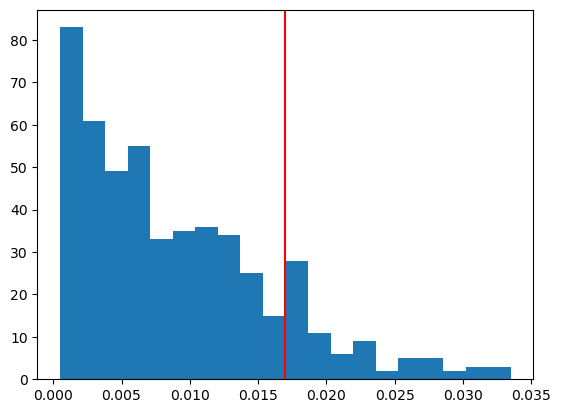
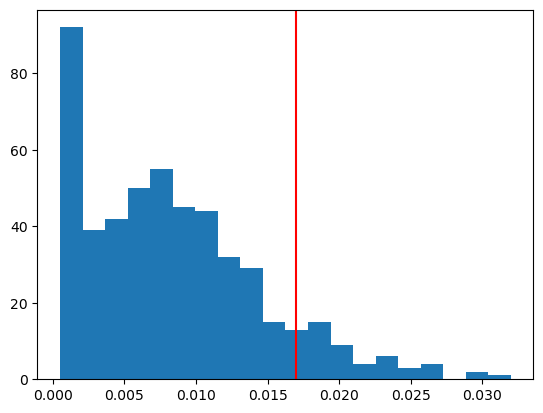
lec 9

Changed region(s): [[0.1473, 0.0291, 0.9724, 0.9879], [0.0, 0.0291, 0.1473, 0.9879], [0.1768, 0.9298, 0.2652, 0.9879]]

diff --git a/docs/lec-9/lecture-9.html b/docs/lec-9/lecture-9.html
@@ -324,7 +324,7 @@ window.Quarto = {
 </header>
 
 
-<div id="cell-1" class="cell" data-execution_count="18">
+<div id="cell-1" class="cell" data-execution_count="144">
 <div class="sourceCode cell-code" id="cb1"><pre class="sourceCode python code-with-copy"><code class="sourceCode python"><span id="cb1-1"><a href="#cb1-1" aria-hidden="true" tabindex="-1"></a><span class="im">import</span> torch</span>
 <span id="cb1-2"><a href="#cb1-2" aria-hidden="true" tabindex="-1"></a><span class="im">import</span> torch.nn <span class="im">as</span> nn</span>
 <span id="cb1-3"><a href="#cb1-3" aria-hidden="true" tabindex="-1"></a><span class="im">import</span> torch.optim <span class="im">as</span> optim</span>
@@ -333,8 +333,8 @@ window.Quarto = {
 <span id="cb1-6"><a href="#cb1-6" aria-hidden="true" tabindex="-1"></a><span class="im">import</span> scipy</span>
 <span id="cb1-7"><a href="#cb1-7" aria-hidden="true" tabindex="-1"></a></span>
 <span id="cb1-8"><a href="#cb1-8" aria-hidden="true" tabindex="-1"></a>torch.manual_seed(<span class="dv">42</span>)</span></code><button title="Copy to Clipboard" class="code-copy-button"><i class="bi"></i></button></pre></div>
-<div class="cell-output cell-output-display" data-execution_count="18">
-<pre><code>&lt;torch._C.Generator at 0x10ff1c830&gt;</code></pre>
+<div class="cell-output cell-output-display" data-execution_count="144">
+<pre><code>&lt;torch._C.Generator at 0x112a1c3f0&gt;</code></pre>
 </div>
 </div>
 <section id="two-sample-test" class="level2">
@@ -347,7 +347,7 @@ window.Quarto = {
 <p>We conduct a permutation test to test whether CTR for A (<span class="math inline">\theta_A</span>) is equal to CTR for B (<span class="math inline">\theta_B</span>).</p>
 <p><span class="math inline">H_0: \theta_A=\theta_B, \quad H_1: \theta_A \neq \theta_B</span>.</p>
 <p>Our test statistic is <span class="math inline">|\hat{\theta}_A-\hat{\theta}_B|</span>.</p>
-<div id="cell-3" class="cell" data-execution_count="19">
+<div id="cell-3" class="cell" data-execution_count="145">
 <div class="sourceCode cell-code" id="cb3"><pre class="sourceCode python code-with-copy"><code class="sourceCode python"><span id="cb3-1"><a href="#cb3-1" aria-hidden="true" tabindex="-1"></a>my_viewsA <span class="op">=</span> <span class="dv">98</span> <span class="co"># number of clicks for video A</span></span>
 <span id="cb3-2"><a href="#cb3-2" aria-hidden="true" tabindex="-1"></a>my_viewsB <span class="op">=</span> <span class="dv">162</span> <span class="co"># number of clicks for video B</span></span>
 <span id="cb3-3"><a href="#cb3-3" aria-hidden="true" tabindex="-1"></a></span>
@@ -356,35 +356,35 @@ window.Quarto = {
 </div>
 <p>Dataset A: <span class="math inline">(1, \dots, 1, 0, 0, \dots, 0)</span> (98 ones, 902 zeros)</p>
 <p>Dataset B: <span class="math inline">(1,\dots, 1, 0, \dots, 0)</span> (162 ones, 1838 zeros)</p>
-<div id="cell-5" class="cell" data-execution_count="20">
+<div id="cell-5" class="cell" data-execution_count="146">
 <div class="sourceCode cell-code" id="cb4"><pre class="sourceCode python code-with-copy"><code class="sourceCode python"><span id="cb4-1"><a href="#cb4-1" aria-hidden="true" tabindex="-1"></a>my_viewsA<span class="op">/</span>n_impsA</span></code><button title="Copy to Clipboard" class="code-copy-button"><i class="bi"></i></button></pre></div>
-<div class="cell-output cell-output-display" data-execution_count="20">
+<div class="cell-output cell-output-display" data-execution_count="146">
 <pre><code>0.098</code></pre>
 </div>
 </div>
-<div id="cell-6" class="cell" data-execution_count="21">
+<div id="cell-6" class="cell" data-execution_count="147">
 <div class="sourceCode cell-code" id="cb6"><pre class="sourceCode python code-with-copy"><code class="sourceCode python"><span id="cb6-1"><a href="#cb6-1" aria-hidden="true" tabindex="-1"></a>my_viewsB<span class="op">/</span>n_impsB</span></code><button title="Copy to Clipboard" class="code-copy-button"><i class="bi"></i></button></pre></div>
-<div class="cell-output cell-output-display" data-execution_count="21">
+<div class="cell-output cell-output-display" data-execution_count="147">
 <pre><code>0.081</code></pre>
 </div>
 </div>
-<div id="cell-7" class="cell" data-execution_count="22">
+<div id="cell-7" class="cell" data-execution_count="148">
 <div class="sourceCode cell-code" id="cb8"><pre class="sourceCode python code-with-copy"><code class="sourceCode python"><span id="cb8-1"><a href="#cb8-1" aria-hidden="true" tabindex="-1"></a>obs_T <span class="op">=</span> <span class="bu">abs</span>(my_viewsA<span class="op">/</span>n_impsA <span class="op">-</span> my_viewsB<span class="op">/</span>n_impsB) <span class="co"># |theta_1 - theta_2|</span></span></code><button title="Copy to Clipboard" class="code-copy-button"><i class="bi"></i></button></pre></div>
 </div>
-<div id="cell-8" class="cell" data-execution_count="23">
+<div id="cell-8" class="cell" data-execution_count="149">
 <div class="sourceCode cell-code" id="cb9"><pre class="sourceCode python code-with-copy"><code class="sourceCode python"><span id="cb9-1"><a href="#cb9-1" aria-hidden="true" tabindex="-1"></a>obs_T</span></code><button title="Copy to Clipboard" class="code-copy-button"><i class="bi"></i></button></pre></div>
-<div class="cell-output cell-output-display" data-execution_count="23">
+<div class="cell-output cell-output-display" data-execution_count="149">
 <pre><code>0.017</code></pre>
 </div>
 </div>
 <p>We pool the Dataset A and Dataset B. (We will shuffle Dataset A and Dataset B in the permutation test).</p>
-<div id="cell-10" class="cell" data-execution_count="24">
+<div id="cell-10" class="cell" data-execution_count="150">
 <div class="sourceCode cell-code" id="cb11"><pre class="sourceCode python code-with-copy"><code class="sourceCode python"><span id="cb11-1"><a href="#cb11-1" aria-hidden="true" tabindex="-1"></a>all_views <span class="op">=</span> my_viewsA <span class="op">+</span> my_viewsB</span>
 <span id="cb11-2"><a href="#cb11-2" aria-hidden="true" tabindex="-1"></a>all_imps <span class="op">=</span> n_impsA <span class="op">+</span> n_impsB</span>
 <span id="cb11-3"><a href="#cb11-3" aria-hidden="true" tabindex="-1"></a>pool <span class="op">=</span> np.array([<span class="dv">1</span>]<span class="op">*</span>all_views <span class="op">+</span> [<span class="dv">0</span>]<span class="op">*</span>(all_imps <span class="op">-</span> all_views))</span></code><button title="Copy to Clipboard" class="code-copy-button"><i class="bi"></i></button></pre></div>
 </div>
 <p>Here is an example of a random draw from the null distribution (that the CTR of A and B is the same).</p>
-<div id="cell-12" class="cell" data-execution_count="25">
+<div id="cell-12" class="cell" data-execution_count="151">
 <div class="sourceCode cell-code" id="cb12"><pre class="sourceCode python code-with-copy"><code class="sourceCode python"><span id="cb12-1"><a href="#cb12-1" aria-hidden="true" tabindex="-1"></a><span class="co"># Sample without replacement for impsA</span></span>
 <span id="cb12-2"><a href="#cb12-2" aria-hidden="true" tabindex="-1"></a>impsA <span class="op">=</span> np.random.choice(pool, n_impsA, replace<span class="op">=</span><span class="va">False</span>)</span>
 <span id="cb12-3"><a href="#cb12-3" aria-hidden="true" tabindex="-1"></a><span class="co"># new permuted dataset of size n_impsA</span></span>
@@ -397,7 +397,7 @@ window.Quarto = {
 <li>for each sample <span class="math inline">s=1,\dots, 500</span>, calculate <span class="math inline">T_s = |\hat{\theta}_{A, s}-\hat{\theta}_{B, s}|</span></li>
 <li>locate actual observed <span class="math inline">T_{obs}=|\hat{\theta}_A-\hat{\theta}_B|</span> in sample distribution: <span class="math display">\text{p-val} = \frac{1}{S}\sum_{s=1}^{500} \mathbb{1}(T_s\geq T_{obs} )</span></li>
 </ul>
-<div id="cell-14" class="cell" data-execution_count="26">
+<div id="cell-14" class="cell" data-execution_count="152">
 <div class="sourceCode cell-code" id="cb13"><pre class="sourceCode python code-with-copy"><code class="sourceCode python"><span id="cb13-1"><a href="#cb13-1" aria-hidden="true" tabindex="-1"></a>n_perm <span class="op">=</span> <span class="dv">500</span></span>
 <span id="cb13-2"><a href="#cb13-2" aria-hidden="true" tabindex="-1"></a>resampled_Ts <span class="op">=</span> np.zeros(n_perm) <span class="co"># where to store our permutation test statistics</span></span>
 <span id="cb13-3"><a href="#cb13-3" aria-hidden="true" tabindex="-1"></a></span>
@@ -425,7 +425,7 @@ window.Quarto = {
 <span id="cb13-25"><a href="#cb13-25" aria-hidden="true" tabindex="-1"></a>plt.axvline(obs_T, color<span class="op">=</span><span class="st">'red'</span>)</span>
 <span id="cb13-26"><a href="#cb13-26" aria-hidden="true" tabindex="-1"></a>plt.show()</span></code><button title="Copy to Clipboard" class="code-copy-button"><i class="bi"></i></button></pre></div>
 <div class="cell-output cell-output-stdout">
-<pre><code>P-Value: 0.1480</code></pre>
+<pre><code>P-Value: 0.1140</code></pre>
 </div>
 <div class="cell-output cell-output-display">
 <div>
@@ -460,25 +460,26 @@ window.Quarto = {
 </ul></li>
 <li>Calculate <span class="math inline">p</span>-value: <span class="math display">\text{p-val} = \frac{1}{S}\sum_{s=1}^{500} \mathbb{1}(T_s\geq T_{obs} )</span></li>
 </ul>
-<div id="cell-17" class="cell" data-execution_count="27">
+<div id="cell-17" class="cell" data-execution_count="153">
 <div class="sourceCode cell-code" id="cb15"><pre class="sourceCode python code-with-copy"><code class="sourceCode python"><span id="cb15-1"><a href="#cb15-1" aria-hidden="true" tabindex="-1"></a><span class="kw">class</span> NNet(nn.Module):</span>
 <span id="cb15-2"><a href="#cb15-2" aria-hidden="true" tabindex="-1"></a>    <span class="kw">def</span> <span class="fu">__init__</span>(<span class="va">self</span>, in_dim, out_dim):</span>
 <span id="cb15-3"><a href="#cb15-3" aria-hidden="true" tabindex="-1"></a>        <span class="bu">super</span>(NNet, <span class="va">self</span>).<span class="fu">__init__</span>()</span>
 <span id="cb15-4"><a href="#cb15-4" aria-hidden="true" tabindex="-1"></a>        <span class="va">self</span>.sequential <span class="op">=</span> nn.Sequential(</span>
 <span id="cb15-5"><a href="#cb15-5" aria-hidden="true" tabindex="-1"></a>            nn.Linear(in_dim, <span class="dv">2</span><span class="op">*</span>in_dim),</span>
 <span id="cb15-6"><a href="#cb15-6" aria-hidden="true" tabindex="-1"></a>            nn.ReLU(),</span>
-<span id="cb15-7"><a href="#cb15-7" aria-hidden="true" tabindex="-1"></a>            nn.Linear(<span class="dv">2</span><span class="op">*</span>in_dim, out_dim))</span>
-<span id="cb15-8"><a href="#cb15-8" aria-hidden="true" tabindex="-1"></a></span>
-<span id="cb15-9"><a href="#cb15-9" aria-hidden="true" tabindex="-1"></a>    <span class="kw">def</span> forward(<span class="va">self</span>, x):</span>
-<span id="cb15-10"><a href="#cb15-10" aria-hidden="true" tabindex="-1"></a>        <span class="cf">return</span> <span class="va">self</span>.sequential(x)</span></code><button title="Copy to Clipboard" class="code-copy-button"><i class="bi"></i></button></pre></div>
+<span id="cb15-7"><a href="#cb15-7" aria-hidden="true" tabindex="-1"></a>            nn.Dropout(<span class="fl">0.5</span>),</span>
+<span id="cb15-8"><a href="#cb15-8" aria-hidden="true" tabindex="-1"></a>            nn.Linear(<span class="dv">2</span><span class="op">*</span>in_dim, out_dim))</span>
+<span id="cb15-9"><a href="#cb15-9" aria-hidden="true" tabindex="-1"></a></span>
+<span id="cb15-10"><a href="#cb15-10" aria-hidden="true" tabindex="-1"></a>    <span class="kw">def</span> forward(<span class="va">self</span>, x):</span>
+<span id="cb15-11"><a href="#cb15-11" aria-hidden="true" tabindex="-1"></a>        <span class="cf">return</span> <span class="va">self</span>.sequential(x)</span></code><button title="Copy to Clipboard" class="code-copy-button"><i class="bi"></i></button></pre></div>
 </div>
 <p>We create simulated data which we know is NOT independent.</p>
 <p>Ideally, we should reject the null hypothesis that <span class="math inline">Y</span> and <span class="math inline">X</span> are independent.</p>
-<div id="cell-19" class="cell" data-execution_count="28">
+<div id="cell-19" class="cell" data-execution_count="154">
 <div class="sourceCode cell-code" id="cb16"><pre class="sourceCode python code-with-copy"><code class="sourceCode python"><span id="cb16-1"><a href="#cb16-1" aria-hidden="true" tabindex="-1"></a>p1 <span class="op">=</span> <span class="dv">5</span> <span class="co"># dimension of X</span></span>
 <span id="cb16-2"><a href="#cb16-2" aria-hidden="true" tabindex="-1"></a>p2 <span class="op">=</span> <span class="dv">3</span> <span class="co"># dimension of Y</span></span>
 <span id="cb16-3"><a href="#cb16-3" aria-hidden="true" tabindex="-1"></a></span>
-<span id="cb16-4"><a href="#cb16-4" aria-hidden="true" tabindex="-1"></a>signal_strength <span class="op">=</span> <span class="fl">0.2</span></span>
+<span id="cb16-4"><a href="#cb16-4" aria-hidden="true" tabindex="-1"></a>signal_strength <span class="op">=</span> <span class="fl">0.3</span></span>
 <span id="cb16-5"><a href="#cb16-5" aria-hidden="true" tabindex="-1"></a></span>
 <span id="cb16-6"><a href="#cb16-6" aria-hidden="true" tabindex="-1"></a>n_samples <span class="op">=</span> <span class="dv">10000</span></span>
 <span id="cb16-7"><a href="#cb16-7" aria-hidden="true" tabindex="-1"></a></span>
@@ -493,8 +494,8 @@ window.Quarto = {
 <span id="cb16-16"><a href="#cb16-16" aria-hidden="true" tabindex="-1"></a>X <span class="op">=</span> torch.tensor(X, dtype<span class="op">=</span>torch.float32)</span>
 <span id="cb16-17"><a href="#cb16-17" aria-hidden="true" tabindex="-1"></a>Y <span class="op">=</span> torch.tensor(Y, dtype<span class="op">=</span>torch.float32)</span></code><button title="Copy to Clipboard" class="code-copy-button"><i class="bi"></i></button></pre></div>
 </div>
-<div id="cell-20" class="cell" data-execution_count="29">
-<div class="sourceCode cell-code" id="cb17"><pre class="sourceCode python code-with-copy"><code class="sourceCode python"><span id="cb17-1"><a href="#cb17-1" aria-hidden="true" tabindex="-1"></a><span class="kw">def</span> testerr(x, y, epochs<span class="op">=</span><span class="dv">100</span>):</span>
+<div id="cell-20" class="cell" data-execution_count="155">
+<div class="sourceCode cell-code" id="cb17"><pre class="sourceCode python code-with-copy"><code class="sourceCode python"><span id="cb17-1"><a href="#cb17-1" aria-hidden="true" tabindex="-1"></a><span class="kw">def</span> testerr(x, y, epochs<span class="op">=</span><span class="dv">200</span>):</span>
 <span id="cb17-2"><a href="#cb17-2" aria-hidden="true" tabindex="-1"></a></span>
 <span id="cb17-3"><a href="#cb17-3" aria-hidden="true" tabindex="-1"></a>    <span class="co"># trains a neural network to predict y from x</span></span>
 <span id="cb17-4"><a href="#cb17-4" aria-hidden="true" tabindex="-1"></a>    ntrain <span class="op">=</span> <span class="bu">int</span>(n_samples <span class="op">*</span> <span class="fl">0.7</span>) <span class="co"># train on 70% of the data</span></span>
@@ -507,7 +508,7 @@ window.Quarto = {
 <span id="cb17-11"><a href="#cb17-11" aria-hidden="true" tabindex="-1"></a>    y_test <span class="op">=</span> y[ntrain:]</span>
 <span id="cb17-12"><a href="#cb17-12" aria-hidden="true" tabindex="-1"></a></span>
 <span id="cb17-13"><a href="#cb17-13" aria-hidden="true" tabindex="-1"></a>    net <span class="op">=</span> NNet(p1, p2)</span>
-<span id="cb17-14"><a href="#cb17-14" aria-hidden="true" tabindex="-1"></a></span>
+<span id="cb17-14"><a href="#cb17-14" aria-hidden="true" tabindex="-1"></a>    net.train()</span>
 <span id="cb17-15"><a href="#cb17-15" aria-hidden="true" tabindex="-1"></a>    optimizer <span class="op">=</span> optim.Adam(net.parameters(), lr<span class="op">=</span><span class="fl">0.2</span>)</span>
 <span id="cb17-16"><a href="#cb17-16" aria-hidden="true" tabindex="-1"></a>    <span class="cf">for</span> epoch <span class="kw">in</span> <span class="bu">range</span>(epochs):</span>
 <span id="cb17-17"><a href="#cb17-17" aria-hidden="true" tabindex="-1"></a>        optimizer.zero_grad()</span>
@@ -517,21 +518,22 @@ window.Quarto = {
 <span id="cb17-21"><a href="#cb17-21" aria-hidden="true" tabindex="-1"></a>        loss.backward()</span>
 <span id="cb17-22"><a href="#cb17-22" aria-hidden="true" tabindex="-1"></a>        optimizer.step()</span>
 <span id="cb17-23"><a href="#cb17-23" aria-hidden="true" tabindex="-1"></a>    </span>
-<span id="cb17-24"><a href="#cb17-24" aria-hidden="true" tabindex="-1"></a>    outputs <span class="op">=</span> net(x_test)</span>
-<span id="cb17-25"><a href="#cb17-25" aria-hidden="true" tabindex="-1"></a>    loss <span class="op">=</span> nn.MSELoss(reduction<span class="op">=</span><span class="st">'mean'</span>)(outputs, y_test)</span>
-<span id="cb17-26"><a href="#cb17-26" aria-hidden="true" tabindex="-1"></a></span>
-<span id="cb17-27"><a href="#cb17-27" aria-hidden="true" tabindex="-1"></a>    <span class="cf">return</span> loss.item()</span>
-<span id="cb17-28"><a href="#cb17-28" aria-hidden="true" tabindex="-1"></a></span>
-<span id="cb17-29"><a href="#cb17-29" aria-hidden="true" tabindex="-1"></a><span class="co"># our observed test statistic is the loss in predicting y from x</span></span>
-<span id="cb17-30"><a href="#cb17-30" aria-hidden="true" tabindex="-1"></a>obs_T <span class="op">=</span> testerr(X, Y)</span></code><button title="Copy to Clipboard" class="code-copy-button"><i class="bi"></i></button></pre></div>
+<span id="cb17-24"><a href="#cb17-24" aria-hidden="true" tabindex="-1"></a>    net.<span class="bu">eval</span>()</span>
+<span id="cb17-25"><a href="#cb17-25" aria-hidden="true" tabindex="-1"></a>    outputs <span class="op">=</span> net(x_test)</span>
+<span id="cb17-26"><a href="#cb17-26" aria-hidden="true" tabindex="-1"></a>    loss <span class="op">=</span> nn.MSELoss(reduction<span class="op">=</span><span class="st">'mean'</span>)(outputs, y_test)</span>
+<span id="cb17-27"><a href="#cb17-27" aria-hidden="true" tabindex="-1"></a></span>
+<span id="cb17-28"><a href="#cb17-28" aria-hidden="true" tabindex="-1"></a>    <span class="cf">return</span> loss.item()</span>
+<span id="cb17-29"><a href="#cb17-29" aria-hidden="true" tabindex="-1"></a></span>
+<span id="cb17-30"><a href="#cb17-30" aria-hidden="true" tabindex="-1"></a><span class="co"># our observed test statistic is the loss in predicting y from x</span></span>
+<span id="cb17-31"><a href="#cb17-31" aria-hidden="true" tabindex="-1"></a>obs_T <span class="op">=</span> testerr(X, Y)</span></code><button title="Copy to Clipboard" class="code-copy-button"><i class="bi"></i></button></pre></div>
 </div>
-<div id="cell-21" class="cell" data-execution_count="30">
+<div id="cell-21" class="cell" data-execution_count="156">
 <div class="sourceCode cell-code" id="cb18"><pre class="sourceCode python code-with-copy"><code class="sourceCode python"><span id="cb18-1"><a href="#cb18-1" aria-hidden="true" tabindex="-1"></a>obs_T</span></code><button title="Copy to Clipboard" class="code-copy-button"><i class="bi"></i></button></pre></div>
-<div class="cell-output cell-output-display" data-execution_count="30">
-<pre><code>1.0047097206115723</code></pre>
+<div class="cell-output cell-output-display" data-execution_count="156">
+<pre><code>1.0054599046707153</code></pre>
 </div>
 </div>
-<div id="cell-22" class="cell" data-execution_count="31">
+<div id="cell-22" class="cell" data-execution_count="157">
 <div class="sourceCode cell-code" id="cb20"><pre class="sourceCode python code-with-copy"><code class="sourceCode python"><span id="cb20-1"><a href="#cb20-1" aria-hidden="true" tabindex="-1"></a><span class="co"># Perform permutation testing</span></span>
 <span id="cb20-2"><a href="#cb20-2" aria-hidden="true" tabindex="-1"></a>n_permutations <span class="op">=</span> <span class="dv">500</span></span>
 <span id="cb20-3"><a href="#cb20-3" aria-hidden="true" tabindex="-1"></a>resampled_Ts <span class="op">=</span> []</span>
@@ -541,7 +543,7 @@ window.Quarto = {
 <span id="cb20-7"><a href="#cb20-7" aria-hidden="true" tabindex="-1"></a>    resampled_T <span class="op">=</span> testerr(X, permuted_Y) <span class="co"># train a neural network, output training loss</span></span>
 <span id="cb20-8"><a href="#cb20-8" aria-hidden="true" tabindex="-1"></a>    resampled_Ts.append(resampled_T)</span></code><button title="Copy to Clipboard" class="code-copy-button"><i class="bi"></i></button></pre></div>
 </div>
-<div id="cell-23" class="cell" data-execution_count="32">
+<div id="cell-23" class="cell" data-execution_count="158">
 <div class="sourceCode cell-code" id="cb21"><pre class="sourceCode python code-with-copy"><code class="sourceCode python"><span id="cb21-1"><a href="#cb21-1" aria-hidden="true" tabindex="-1"></a><span class="co"># Calculate p-value</span></span>
 <span id="cb21-2"><a href="#cb21-2" aria-hidden="true" tabindex="-1"></a>p_value <span class="op">=</span> <span class="bu">sum</span>([<span class="dv">1</span> <span class="cf">for</span> t <span class="kw">in</span> resampled_Ts <span class="cf">if</span> t <span class="op">&lt;=</span> obs_T]) <span class="op">/</span> n_permutations</span>
 <span id="cb21-3"><a href="#cb21-3" aria-hidden="true" tabindex="-1"></a></span>
@@ -561,8 +563,8 @@ window.Quarto = {
 </div>
 </div>
 <div class="cell-output cell-output-stdout">
-<pre><code>Observed test statistic: 1.0047
-P-Value: 0.0580</code></pre>
+<pre><code>Observed test statistic: 1.0055
+P-Value: 0.0080</code></pre>
 </div>
 </div>
 </section>
@@ -584,7 +586,7 @@ P-Value: 0.0580</code></pre>
 </ul></li>
 <li>Calculate <span class="math inline">p</span>-value</li>
 </ul>
-<div id="cell-25" class="cell" data-execution_count="33">
+<div id="cell-25" class="cell" data-execution_count="159">
 <div class="sourceCode cell-code" id="cb23"><pre class="sourceCode python code-with-copy"><code class="sourceCode python"><span id="cb23-1"><a href="#cb23-1" aria-hidden="true" tabindex="-1"></a><span class="co">## sample split</span></span>
 <span id="cb23-2"><a href="#cb23-2" aria-hidden="true" tabindex="-1"></a>ntrain <span class="op">=</span> <span class="bu">int</span>(n_samples <span class="op">*</span> <span class="fl">0.7</span>) <span class="co"># train on 70% of the data</span></span>
 <span id="cb23-3"><a href="#cb23-3" aria-hidden="true" tabindex="-1"></a>ntest <span class="op">=</span> n_samples <span class="op">-</span> ntrain</span>
@@ -595,61 +597,61 @@ P-Value: 0.0580</code></pre>
 <span id="cb23-8"><a href="#cb23-8" aria-hidden="true" tabindex="-1"></a>Y_train <span class="op">=</span> Y[:ntrain]</span>
 <span id="cb23-9"><a href="#cb23-9" aria-hidden="true" tabindex="-1"></a>Y_test <span class="op">=</span> Y[ntrain:]</span>
 <span id="cb23-10"><a href="#cb23-10" aria-hidden="true" tabindex="-1"></a></span>
-<span id="cb23-11"><a href="#cb23-11" aria-hidden="true" tabindex="-1"></a>net <span class="op">=</span> NNet(p1, p2)</span>
-<span id="cb23-12"><a href="#cb23-12" aria-hidden="true" tabindex="-1"></a></span>
-<span id="cb23-13"><a href="#cb23-13" aria-hidden="true" tabindex="-1"></a>Y_train_centered <span class="op">=</span> Y_train <span class="op">-</span> torch.mean(Y_train, dim<span class="op">=</span><span class="dv">0</span>)</span></code><button title="Copy to Clipboard" class="code-copy-button"><i class="bi"></i></button></pre></div>
+<span id="cb23-11"><a href="#cb23-11" aria-hidden="true" tabindex="-1"></a>net <span class="op">=</span> NNet(p1, p2)</span></code><button title="Copy to Clipboard" class="code-copy-button"><i class="bi"></i></button></pre></div>
 </div>
-<div id="cell-26" class="cell" data-execution_count="34">
-<div class="sourceCode cell-code" id="cb24"><pre class="sourceCode python code-with-copy"><code class="sourceCode python"><span id="cb24-1"><a href="#cb24-1" aria-hidden="true" tabindex="-1"></a>epochs <span class="op">=</span> <span class="dv">200</span></span>
-<span id="cb24-2"><a href="#cb24-2" aria-hidden="true" tabindex="-1"></a>optimizer <span class="op">=</span> optim.SGD(net.parameters(), lr<span class="op">=</span><span class="fl">.1</span>)</span>
-<span id="cb24-3"><a href="#cb24-3" aria-hidden="true" tabindex="-1"></a><span class="cf">for</span> epoch <span class="kw">in</span> <span class="bu">range</span>(epochs):</span>
-<span id="cb24-4"><a href="#cb24-4" aria-hidden="true" tabindex="-1"></a>    optimizer.zero_grad()</span>
-<span id="cb24-5"><a href="#cb24-5" aria-hidden="true" tabindex="-1"></a>    outputs <span class="op">=</span> net(X_train)</span>
-<span id="cb24-6"><a href="#cb24-6" aria-hidden="true" tabindex="-1"></a>        </span>
-<span id="cb24-7"><a href="#cb24-7" aria-hidden="true" tabindex="-1"></a>    loss <span class="op">=</span> nn.MSELoss(reduction<span class="op">=</span><span class="st">'mean'</span>)(outputs, Y_train_centered)</span>
-<span id="cb24-8"><a href="#cb24-8" aria-hidden="true" tabindex="-1"></a>    loss.backward()</span>
-<span id="cb24-9"><a href="#cb24-9" aria-hidden="true" tabindex="-1"></a>    optimizer.step()</span>
-<span id="cb24-10"><a href="#cb24-10" aria-hidden="true" tabindex="-1"></a></span>
-<span id="cb24-11"><a href="#cb24-11" aria-hidden="true" tabindex="-1"></a>testerrs <span class="op">=</span> torch.<span class="bu">sum</span>((Y_test <span class="op">-</span> net(X_test) <span class="op">-</span> torch.mean(Y_train, dim<span class="op">=</span><span class="dv">0</span>))<span class="op">**</span><span class="dv">2</span>, dim<span class="op">=</span><span class="dv">1</span>)</span>
-<span id="cb24-12"><a href="#cb24-12" aria-hidden="true" tabindex="-1"></a>mean_testerr <span class="op">=</span> torch.mean(testerrs)</span></code><button title="Copy to Clipboard" class="code-copy-button"><i class="bi"></i></button></pre></div>
+<div id="cell-26" class="cell" data-execution_count="160">
+<div class="sourceCode cell-code" id="cb24"><pre class="sourceCode python code-with-copy"><code class="sourceCode python"><span id="cb24-1"><a href="#cb24-1" aria-hidden="true" tabindex="-1"></a>net.train()</span>
+<span id="cb24-2"><a href="#cb24-2" aria-hidden="true" tabindex="-1"></a>epochs <span class="op">=</span> <span class="dv">200</span></span>
+<span id="cb24-3"><a href="#cb24-3" aria-hidden="true" tabindex="-1"></a>optimizer <span class="op">=</span> optim.Adam(net.parameters(), lr<span class="op">=</span><span class="fl">.2</span>)</span>
+<span id="cb24-4"><a href="#cb24-4" aria-hidden="true" tabindex="-1"></a><span class="cf">for</span> epoch <span class="kw">in</span> <span class="bu">range</span>(epochs):</span>
+<span id="cb24-5"><a href="#cb24-5" aria-hidden="true" tabindex="-1"></a>    optimizer.zero_grad()</span>
+<span id="cb24-6"><a href="#cb24-6" aria-hidden="true" tabindex="-1"></a>    outputs <span class="op">=</span> net(X_train)</span>
+<span id="cb24-7"><a href="#cb24-7" aria-hidden="true" tabindex="-1"></a>        </span>
+<span id="cb24-8"><a href="#cb24-8" aria-hidden="true" tabindex="-1"></a>    loss <span class="op">=</span> nn.MSELoss(reduction<span class="op">=</span><span class="st">'mean'</span>)(outputs, Y_train)</span>
+<span id="cb24-9"><a href="#cb24-9" aria-hidden="true" tabindex="-1"></a>    loss.backward()</span>
+<span id="cb24-10"><a href="#cb24-10" aria-hidden="true" tabindex="-1"></a>    optimizer.step()</span>
+<span id="cb24-11"><a href="#cb24-11" aria-hidden="true" tabindex="-1"></a></span>
+<span id="cb24-12"><a href="#cb24-12" aria-hidden="true" tabindex="-1"></a>net.<span class="bu">eval</span>()</span>
+<span id="cb24-13"><a href="#cb24-13" aria-hidden="true" tabindex="-1"></a>testerrs <span class="op">=</span> torch.<span class="bu">sum</span>((Y_test <span class="op">-</span> net(X_test))<span class="op">**</span><span class="dv">2</span>, dim<span class="op">=</span><span class="dv">1</span>)</span>
+<span id="cb24-14"><a href="#cb24-14" aria-hidden="true" tabindex="-1"></a>mean_testerr <span class="op">=</span> torch.mean(testerrs)</span></code><button title="Copy to Clipboard" class="code-copy-button"><i class="bi"></i></button></pre></div>
 </div>
-<div id="cell-27" class="cell" data-execution_count="35">
+<div id="cell-27" class="cell" data-execution_count="161">
 <div class="sourceCode cell-code" id="cb25"><pre class="sourceCode python code-with-copy"><code class="sourceCode python"><span id="cb25-1"><a href="#cb25-1" aria-hidden="true" tabindex="-1"></a>testerrs</span></code><button title="Copy to Clipboard" class="code-copy-button"><i class="bi"></i></button></pre></div>
-<div class="cell-output cell-output-display" data-execution_count="35">
-<pre><code>tensor([2.5163, 8.0750, 1.9151,  ..., 7.1741, 0.8597, 3.6098],
+<div class="cell-output cell-output-display" data-execution_count="161">
+<pre><code>tensor([0.6410, 0.7331, 6.1261,  ..., 4.2328, 1.2628, 4.6177],
        grad_fn=&lt;SumBackward1&gt;)</code></pre>
 </div>
 </div>
-<div id="cell-28" class="cell" data-execution_count="36">
+<div id="cell-28" class="cell" data-execution_count="162">
 <div class="sourceCode cell-code" id="cb27"><pre class="sourceCode python code-with-copy"><code class="sourceCode python"><span id="cb27-1"><a href="#cb27-1" aria-hidden="true" tabindex="-1"></a>nullerrs <span class="op">=</span> torch.<span class="bu">sum</span>((Y_test <span class="op">-</span> torch.mean(Y_train, dim<span class="op">=</span><span class="dv">0</span>))<span class="op">**</span><span class="dv">2</span>, dim<span class="op">=</span><span class="dv">1</span>)</span>
 <span id="cb27-2"><a href="#cb27-2" aria-hidden="true" tabindex="-1"></a>mean_nullerr <span class="op">=</span> torch.mean( nullerrs )</span></code><button title="Copy to Clipboard" class="code-copy-button"><i class="bi"></i></button></pre></div>
 </div>
-<div id="cell-29" class="cell" data-execution_count="37">
+<div id="cell-29" class="cell" data-execution_count="163">
 <div class="sourceCode cell-code" id="cb28"><pre class="sourceCode python code-with-copy"><code class="sourceCode python"><span id="cb28-1"><a href="#cb28-1" aria-hidden="true" tabindex="-1"></a>nullerrs</span></code><button title="Copy to Clipboard" class="code-copy-button"><i class="bi"></i></button></pre></div>
-<div class="cell-output cell-output-display" data-execution_count="37">
-<pre><code>tensor([2.2313, 7.9352, 1.9563,  ..., 7.6444, 0.8521, 3.3415])</code></pre>
+<div class="cell-output cell-output-display" data-execution_count="163">
+<pre><code>tensor([0.7893, 0.7796, 5.9333,  ..., 4.5801, 1.6773, 4.4518])</code></pre>
 </div>
 </div>
-<div id="cell-30" class="cell" data-execution_count="38">
+<div id="cell-30" class="cell" data-execution_count="164">
 <div class="sourceCode cell-code" id="cb30"><pre class="sourceCode python code-with-copy"><code class="sourceCode python"><span id="cb30-1"><a href="#cb30-1" aria-hidden="true" tabindex="-1"></a><span class="bu">print</span>(<span class="ss">f"Mean Test Errors: </span><span class="sc">{</span>mean_testerr<span class="sc">:.4f}</span><span class="ss">"</span>)</span>
 <span id="cb30-2"><a href="#cb30-2" aria-hidden="true" tabindex="-1"></a><span class="bu">print</span>(<span class="ss">f"Mean Null Test Errors: </span><span class="sc">{</span>mean_nullerr<span class="sc">:.4f}</span><span class="ss">"</span>)</span>
 <span id="cb30-3"><a href="#cb30-3" aria-hidden="true" tabindex="-1"></a></span>
 <span id="cb30-4"><a href="#cb30-4" aria-hidden="true" tabindex="-1"></a>obs_T <span class="op">=</span> mean_testerr <span class="op">-</span> mean_nullerr</span></code><button title="Copy to Clipboard" class="code-copy-button"><i class="bi"></i></button></pre></div>
 <div class="cell-output cell-output-stdout">
-<pre><code>Mean Test Errors: 2.9884
-Mean Null Test Errors: 3.0283</code></pre>
+<pre><code>Mean Test Errors: 3.0165
+Mean Null Test Errors: 3.0656</code></pre>
 </div>
 </div>
-<div id="cell-31" class="cell" data-execution_count="39">
+<div id="cell-31" class="cell" data-execution_count="165">
 <div class="sourceCode cell-code" id="cb32"><pre class="sourceCode python code-with-copy"><code class="sourceCode python"><span id="cb32-1"><a href="#cb32-1" aria-hidden="true" tabindex="-1"></a>combined <span class="op">=</span> torch.stack((testerrs, nullerrs), dim<span class="op">=</span><span class="dv">1</span>)</span></code><button title="Copy to Clipboard" class="code-copy-button"><i class="bi"></i></button></pre></div>
 </div>
-<div id="cell-32" class="cell" data-execution_count="41">
+<div id="cell-32" class="cell" data-execution_count="166">
 <div class="sourceCode cell-code" id="cb33"><pre class="sourceCode python code-with-copy"><code class="sourceCode python"><span id="cb33-1"><a href="#cb33-1" aria-hidden="true" tabindex="-1"></a>heads <span class="op">=</span> torch.randint(<span class="dv">0</span>, <span class="dv">2</span>, (ntest,))</span>
 <span id="cb33-2"><a href="#cb33-2" aria-hidden="true" tabindex="-1"></a></span>
 <span id="cb33-3"><a href="#cb33-3" aria-hidden="true" tabindex="-1"></a>resampled_testerrs <span class="op">=</span> combined[torch.arange(ntest), heads]</span>
 <span id="cb33-4"><a href="#cb33-4" aria-hidden="true" tabindex="-1"></a>resampled_nullerrs <span class="op">=</span> combined[torch.arange(ntest), <span class="dv">1</span><span class="op">-</span>heads]</span></code><button title="Copy to Clipboard" class="code-copy-button"><i class="bi"></i></button></pre></div>
 </div>
-<div id="cell-33" class="cell" data-execution_count="42">
+<div id="cell-33" class="cell" data-execution_count="167">
 <div class="sourceCode cell-code" id="cb34"><pre class="sourceCode python code-with-copy"><code class="sourceCode python"><span id="cb34-1"><a href="#cb34-1" aria-hidden="true" tabindex="-1"></a>n_permutations <span class="op">=</span> <span class="dv">500</span></span>
 <span id="cb34-2"><a href="#cb34-2" aria-hidden="true" tabindex="-1"></a>resampled_Ts <span class="op">=</span> []</span>
 <span id="cb34-3"><a href="#cb34-3" aria-hidden="true" tabindex="-1"></a></span>
